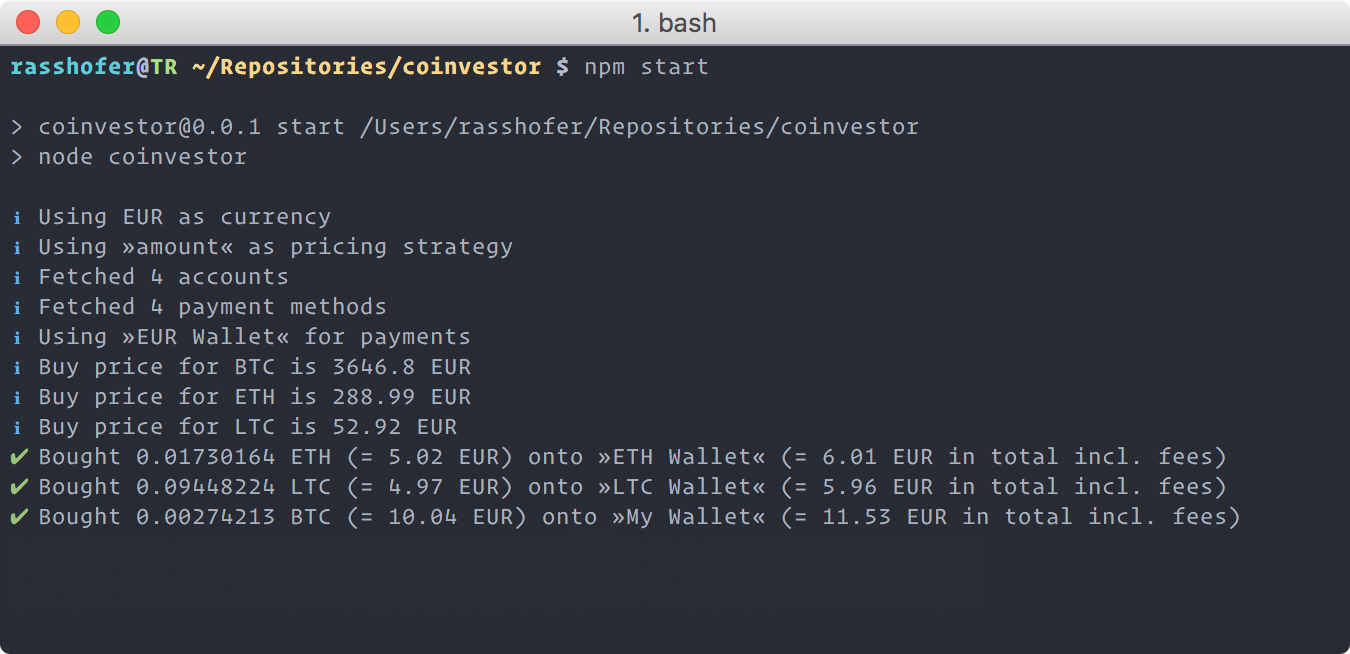
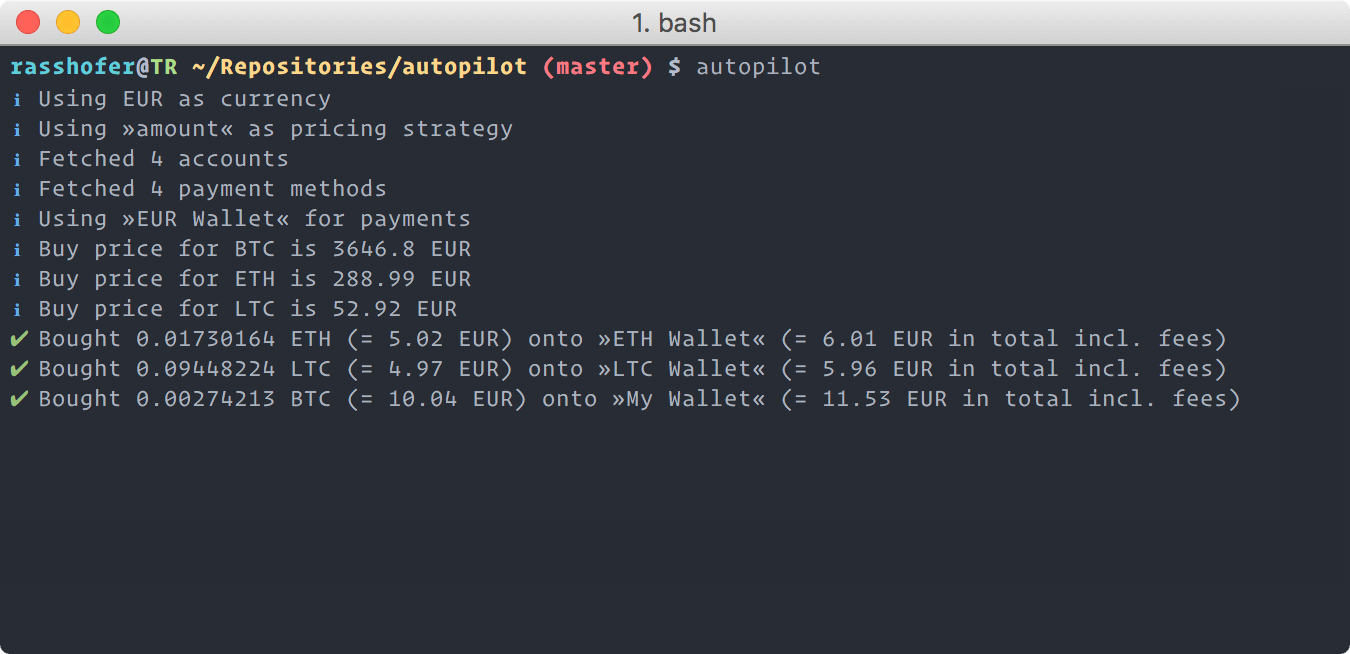
Rename to »Autopilot«

Changed region(s): [[0.0, 0.1223, 0.9022, 0.8257], [0.28, 0.0917, 0.6222, 0.1223]]

diff --git a/autopilot.js b/autopilot.js
@@ -8,7 +8,7 @@ const coinbase = require('./services/coinbase');
 const gdax = require('./services/gdax');
 
 nconf.argv().env().file({
-  file: path.resolve(process.cwd(), 'coinvestor.json')
+  file: path.resolve(process.cwd(), 'autopilot.json')
 }).defaults({
   currency: 'EUR'
 });

diff --git a/README.md b/README.md
@@ -1,28 +1,28 @@
-# Coinvestor
+# Autopilot
 
 > A simple (CLI) tool to »Cost Average«-buy Bitcoin, Litecoin, and/or Ethereum using Coinbase or GDAX
 
 Cost averaging is a common investment technique of buying a fixed amount of a particular investment (e.g. cryptocurrencies) on a regular schedule, regardless of the share price. Hence one purchases more shares when prices are low and fewer shares when prices are high. This way one is able to compensate for exchange rate fluctuations.
 
-Coinvestor is supposed to be configured as a cronjob that is executed once per day/week/month.
+Autopilot is supposed to be configured as a cronjob that is executed once per day/week/month.
 
-<img src="https://cdn.rawgit.com/rasshofer/coinvestor/master/screenshot.png" alt="Coinvestor" width="675" height="327">
+<img src="https://cdn.rawgit.com/rasshofer/autopilot/master/screenshot.png" alt="Autopilot" width="675" height="327">
 
 ## CLI
 
 ```shell
-npm install -g coinvestor
+npm install -g autopilot
 ```
 
 ```shell
-$ coinvestor {OPTIONS}
+$ autopilot {OPTIONS}
 ```
 
 ## Configuration
 
-Coinvestor is configured using the following options via a configuration file, environment variables, and/or command-line arguments.
+Autopilot is configured using the following options via a configuration file, environment variables, and/or command-line arguments.
 
-First of all, Coinvestor looks for a JSON file called `coinvestor.json` within the current working directory.
+First of all, Autopilot looks for a JSON file called `autopilot.json` within the current working directory.
 
 ```json
 {
@@ -32,16 +32,16 @@ First of all, Coinvestor looks for a JSON file called `coinvestor.json` within t
 }
 ```
 
-Afterwards, Coinvestor will take environment variables into account.
+Afterwards, Autopilot will take environment variables into account.
 
 ```shell
-coinbase_api_key=Ffs0PvsT9OSgDs3 coinbase_api_secret=SuOMOn7GMjcetdamzD2OWqAN8DQex0nB btc=12 eth=34 ltc=56 coinvestor
+coinbase_api_key=Ffs0PvsT9OSgDs3 coinbase_api_secret=SuOMOn7GMjcetdamzD2OWqAN8DQex0nB btc=12 eth=34 ltc=56 autopilot
 ```
 
-Concluding, Coinvestor will take command-line arguments into account.
+Concluding, Autopilot will take command-line arguments into account.
 
 ```shell
-coinvestor --coinbase_api_key=Ffs0PvsT9OSgDs3 --coinbase_api_secret=SuOMOn7GMjcetdamzD2OWqAN8DQex0nB --btc=12 --eth=34 --ltc=56
+autopilot --coinbase_api_key=Ffs0PvsT9OSgDs3 --coinbase_api_secret=SuOMOn7GMjcetdamzD2OWqAN8DQex0nB --btc=12 --eth=34 --ltc=56
 ```
 
 (All options are merged into a single configuration using the hierarchy described above.)
@@ -50,7 +50,7 @@ coinvestor --coinbase_api_key=Ffs0PvsT9OSgDs3 --coinbase_api_secret=SuOMOn7GMjce
 
 ### Coinbase account
 
-In order to use Coinvestor, you need to create a new API key for your Coinbase account. To do so, head over to [https://www.coinbase.com/settings/api](https://www.coinbase.com/settings/api) and create a new key. Coinvestor needs the following permissions in order to perform buys for you.
+In order to use Autopilot, you need to create a new API key for your Coinbase account. To do so, head over to [https://www.coinbase.com/settings/api](https://www.coinbase.com/settings/api) and create a new key. Autopilot needs the following permissions in order to perform buys for you.
 
 - `wallet:accounts:read`
 - `wallet:buys:create`
@@ -72,7 +72,7 @@ Example: `bchx51JunqVeEH2LG2li7iKDWMj1lrVo`
 
 ### GDAX account
 
-Besides Coinbase you’re also able to buy coins using GDAX. In order to use Coinvestor with GDAX, you need to create a new API key for your GDAX account. To do so, head over to [https://www.gdax.com/settings/api](https://www.gdax.com/settings/api) and create a new key. Coinvestor needs the following permissions in order to perform buys for you.
+Besides Coinbase you’re also able to buy coins using GDAX. In order to use Autopilot with GDAX, you need to create a new API key for your GDAX account. To do so, head over to [https://www.gdax.com/settings/api](https://www.gdax.com/settings/api) and create a new key. Autopilot needs the following permissions in order to perform buys for you.
 
 - `View`
 - `Trade`
@@ -99,7 +99,7 @@ Example: `johxudf2va4`
 
 ### Purchases
 
-Now that Coinvestor is able to perform buys for you, you need to specify what kind of buys you want to be performed.
+Now that Autopilot is able to perform buys for you, you need to specify what kind of buys you want to be performed.
 
 #### `strategy`
 
@@ -109,7 +109,7 @@ Default: `total`
 
 #### `currency`
 
-The base currency used for buying cryptocurrencies. As of now, Coinvestor is not able to handle credit card payments or SEPA bank accounts (due to security restrictions), thus it will always use the FIAT account/wallet matching your base currency.
+The base currency used for buying cryptocurrencies. As of now, Autopilot is not able to handle credit card payments or SEPA bank accounts (due to security restrictions), thus it will always use the FIAT account/wallet matching your base currency.
 
 Example: `USD`
 
@@ -141,6 +141,8 @@ Default: `0`
 
 ## Changelog
 
+* 0.0.6
+  * Rename to »Autopilot«
 * 0.0.5
   * Fix README
 * 0.0.4
@@ -154,7 +156,7 @@ Default: `0`
 
 ## License
 
-Copyright (c) 2017 [Thomas Rasshofer](http://thomasrasshofer.com/)  
+Copyright (c) 2018 [Thomas Rasshofer](http://thomasrasshofer.com/)  
 Licensed under the MIT license.
 
 See LICENSE for more info.
